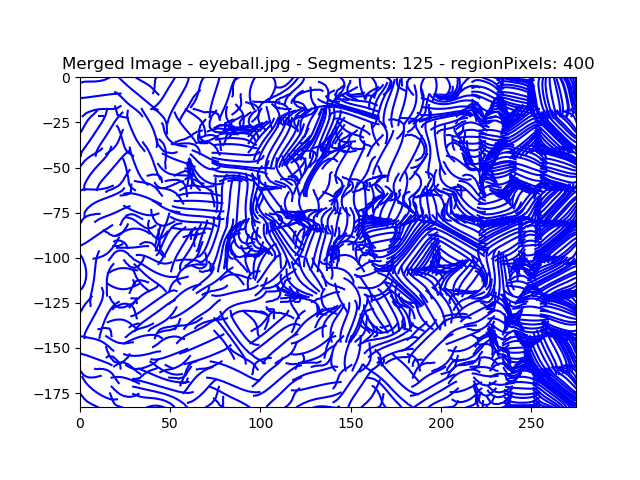
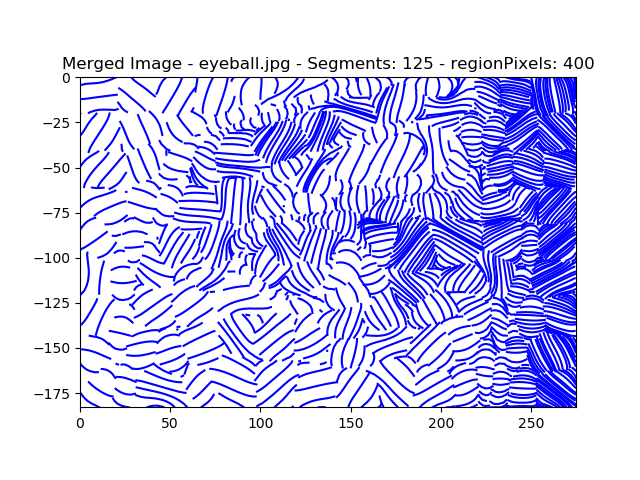
Fixed another bug with shifting.  Now works properly.  Can render whole image.  Region cropping also works properly.

Changed region(s): [[0.125, 0.1562, 0.9062, 0.875]]

diff --git a/PycharmProjects/geodesic/Bridson_FinishedImage.py b/PycharmProjects/geodesic/Bridson_FinishedImage.py
@@ -48,10 +48,11 @@ class FinishedImage:
 							# print("Point NOT in Mask:", x, y)
 							pass
 					except:
-						print("********************* Problem with cropping contour lines. **********************")
-						print("X,Y:", x,y)
-						print("Raster dimensions:", np.shape(raster))
-						print("Raster:", raster)
+						if Bridson_Common.debug:
+							print("********************* Problem with cropping contour lines. **********************")
+							print("X,Y:", x,y)
+							print("Raster dimensions:", np.shape(raster))
+							print("Raster:", raster)
 
 				if emptyLine == False:
 					newLinePoints.append(np.array(newLine))
@@ -81,11 +82,12 @@ class FinishedImage:
 		self.ax.imshow(mark_boundaries(regionRaster, segments, color=(255,0,0)))
 		self.ax.grid()
 
-	def shiftRastersMeshObj(self, regionMap, regionRaster, maskRasterCollection, meshObjCollection ):
+
+	def shiftRastersMeshObj(self, regionMap, regionRaster):
 		# for index in [5]:
-		for index in maskRasterCollection.keys():
-			raster = maskRasterCollection[ index ]
-			meshObj = meshObjCollection[ index ]
+		for index in self.maskRasterCollection.keys():
+			raster = self.maskRasterCollection[ index ]
+			meshObj = self.meshObjCollection[ index ]
 
 			print("Shape of Region Raster:", np.shape(regionRaster))
 
@@ -114,32 +116,37 @@ class FinishedImage:
 			if Bridson_Common.displayMesh:
 				plt.figure()
 				ax = plt.subplot(1, 1, 1, aspect=1)
-				plt.title('shifted Lines for region ' + index)
+				plt.title('shifted Lines for region ' + str(index))
 				plt.grid()
 				for line in newLinePoints:
 					ax.plot(line[:, 0], line[:, 1], color='r', marker='*')
 
 				plt.figure()
 				plt.subplot(1, 1, 1, aspect=1)
-				plt.title('shifted Mask for region ' + index)
+				plt.title('shifted Mask for region ' + str(index))
 				plt.grid()
 				plt.imshow(newRaster)
 
 
 			meshObj.linePoints = newLinePoints
-			maskRasterCollection[index] = newRaster
+			self.maskRasterCollection[index] = newRaster
 
 
 
-
+	def setCollections(self, maskRasterCollection, meshObjCollection ):
+		self.maskRasterCollection = maskRasterCollection
+		self.meshObjCollection = meshObjCollection
 
 
 	def mergeLines(self, regionMap, regionRaster, maskRasterCollection, meshObjCollection ):
-		self.shiftRastersMeshObj( regionMap, regionRaster, maskRasterCollection, meshObjCollection )
+		self.maskRasterCollection = maskRasterCollection
+		self.meshObjCollection = meshObjCollection
+
+		self.shiftRastersMeshObj( regionMap, regionRaster )
 
 		# For each region, determine the points on the lines that are close to the region edge.  Make a registry of these points.
-		for index in maskRasterCollection.keys():
-			raster = maskRasterCollection[ index ]
+		for index in self.maskRasterCollection.keys():
+			raster = self.maskRasterCollection[ index ]
 			meshObj = meshObjCollection[ index ]
 
 			regionCoordinates = regionMap.get(index)
@@ -175,6 +182,7 @@ class FinishedImage:
 		# shiftCoordinates = (bottomRightTarget[0] - topLeftSource[0], bottomRightTarget[1] - topLeftSource[1])
 
 		# linePoints = self.cropContourLines(linePoints, raster)
+		linePoints = self.cropContourLines(linePoints, self.maskRasterCollection[index] )
 
 
 		# print("NewLinePoints:", linePoints)

diff --git a/PycharmProjects/geodesic/Bridson_Main.py b/PycharmProjects/geodesic/Bridson_Main.py
@@ -324,6 +324,8 @@ def indexValidation(filename):
 
 	maskRasterCollection = {}
 	meshObjCollection = {}
+	NoSLICmaskRasterCollection = {}
+	NoSLICmeshObjCollection = {}
 
 	# for index in range(10,15):  # Interesting regions: 11, 12, 14
 	# for index in [12]:
@@ -334,6 +336,7 @@ def indexValidation(filename):
 		raster, actualTopLeft = SLIC.createRegionRasters(regionMap, index)
 		# print("Raster:", raster)
 		maskRasterCollection[index] = raster.copy()  # Make a copy of the mask raster.
+		NoSLICmaskRasterCollection[ index ] = raster.copy()
 
 		displayRegionRaster(raster, index)
 
@@ -379,6 +382,7 @@ def indexValidation(filename):
 
 				# At this point, we have transferred the lines from the flattened mesh to the original mesh.
 				meshObjCollection[ index ] = meshObj
+				NoSLICmeshObjCollection[ index ] = meshObj
 			else:
 				print("Trifinder was NOT successfully generated for region ", index)
 
@@ -391,7 +395,7 @@ def indexValidation(filename):
 	# At this point, we need can attempt to merge the lines between each region.
 	# Still have a problem with the coordinates though.
 	finishedImageSLIC.mergeLines(regionMap, regionRaster, maskRasterCollection, meshObjCollection)
-
+	finishedImageNoSLIC.setCollections( maskRasterCollection, meshObjCollection )
 
 	for index in meshObjCollection.keys():
 		# Draw the region contour lines onto the finished image.
